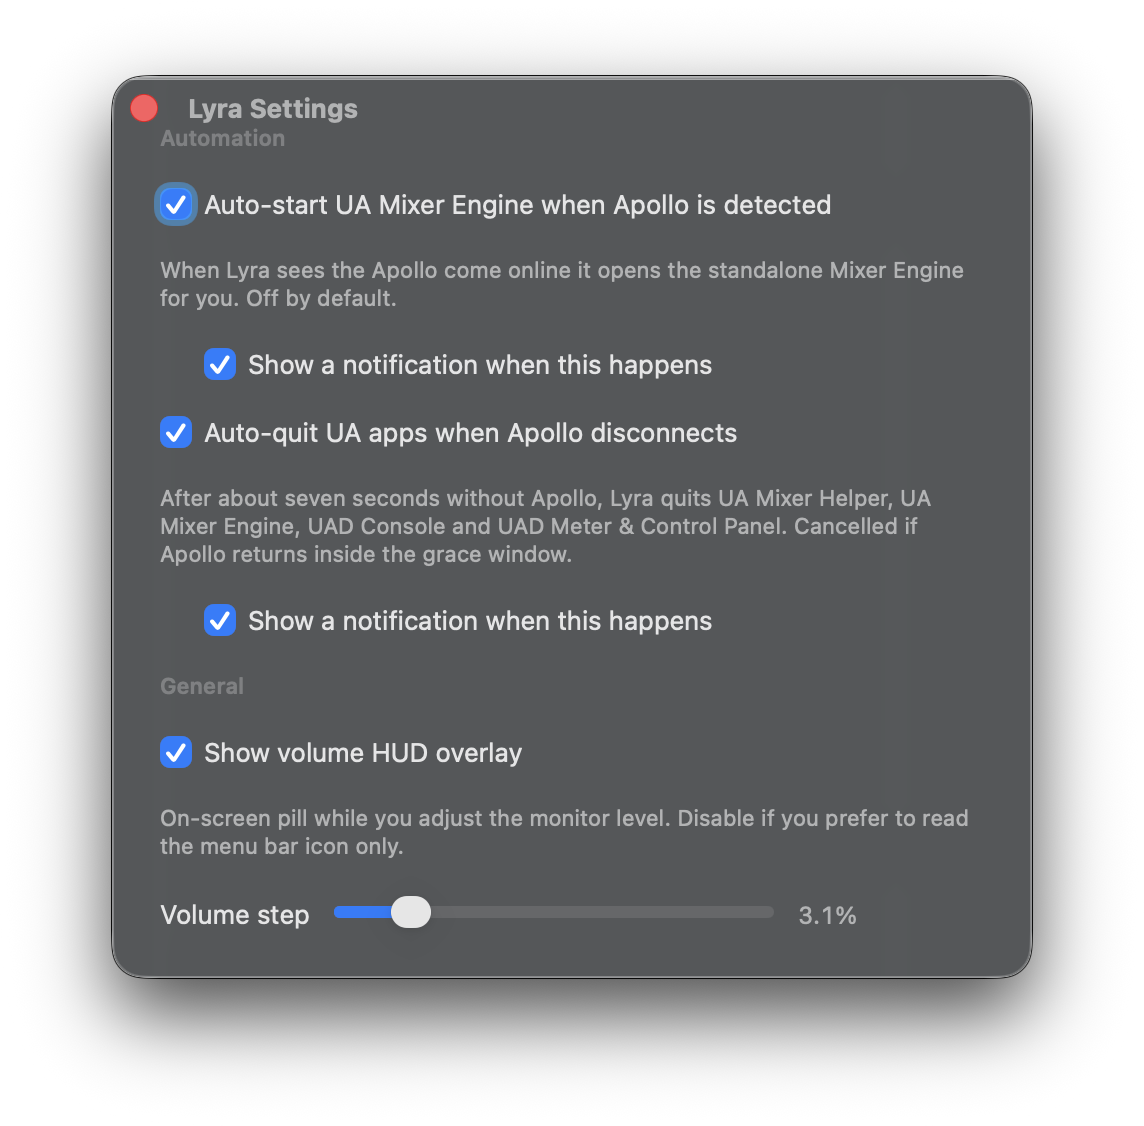
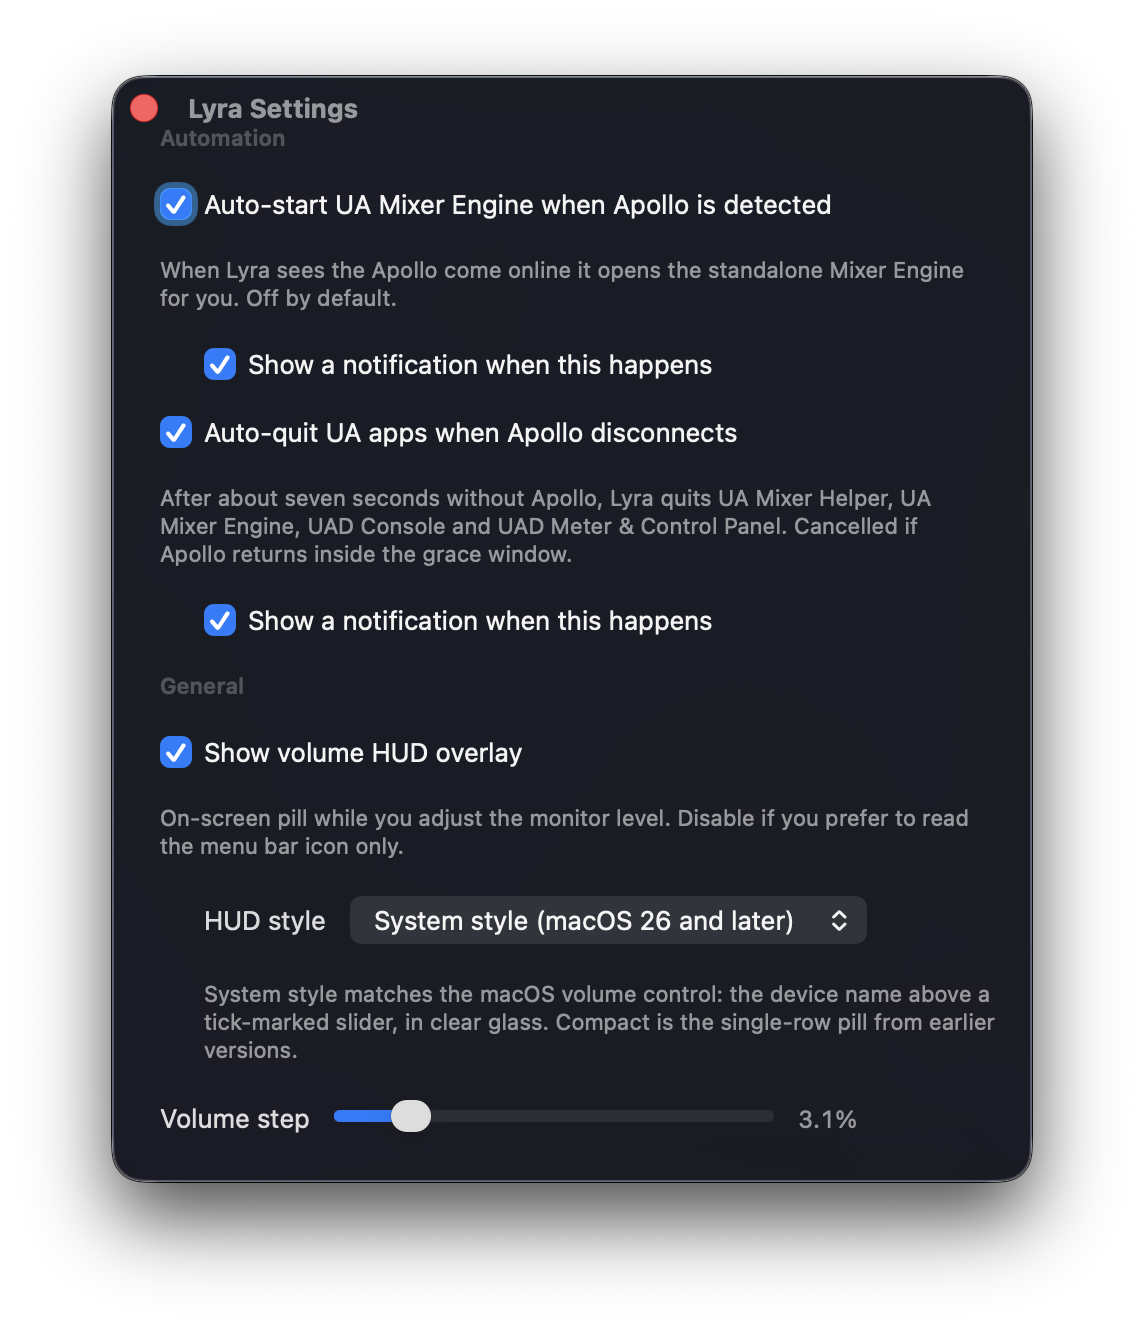
Lyra 1.8: menu and Settings screenshots with the new controls
lyra-menu.png re-shot from the installed 1.8 build with the Apollo
connected: Licensed, Connected: Universal Audio Thunderbolt, Volume 15%,
and the new Pass F-Keys to macOS item above Launch at Login. Gradient
backdrop, 1400 x 1200 at 2x. settings-window.png re-shot with the HUD
style popup in the General section. Alt texts updated on both pages.

Claude-Session: https://claude.ai/code/session_01EFAn8TJ4n5nv75MsPp9hq9

diff --git a/lyra/guide.html b/lyra/guide.html
@@ -615,7 +615,7 @@
 
         <p class="prose">Click the icon to open the menu. Sections, top to bottom:</p>
 
-        <img src="lyra-menu.png" alt="The Lyra menu bar popover with license status, connected Apollo device, volume slider, Mute/DIM/Mono toggles, and the Reference Levels submenu" class="screenshot-full">
+        <img src="lyra-menu.png" alt="The Lyra menu bar popover with license status, connected Apollo device, volume slider, Mute/DIM/Mono toggles, the Reference Levels submenu, and the Pass F-Keys to macOS and Launch at Login toggles" class="screenshot-full">
 
         <h3>License status</h3>
         <p class="prose">"Licensed ✓", "Trial - N days left", or "Trial expired". Hover for a tooltip.</p>
@@ -980,7 +980,7 @@ open "lyra://mute/toggle"</code></pre>
 
         <p class="prose">Open with <kbd>Cmd+,</kbd> or <strong>Settings…</strong> in the menu. New in v1.6. Two sections.</p>
 
-        <img src="settings-window.png" alt="Lyra's Settings window in its default appearance: an Automation section with auto-start and auto-quit toggles (both off) plus their paired notification sub-toggles, and a General section with the volume HUD toggle and volume step slider" class="screenshot-full">
+        <img src="settings-window.png" alt="Lyra's Settings window: an Automation section with the auto-start and auto-quit toggles plus their paired notification sub-toggles, and a General section with the volume HUD toggle, the HUD style popup set to System style, and the volume step slider" class="screenshot-full">
 
         <h3>Automation</h3>
         <ul>

diff --git a/lyra/index.html b/lyra/index.html
@@ -99,7 +99,7 @@
   <!-- ── Screenshots ──────────────────────────────────────────────────── -->
   <section class="shots">
     <div class="shot"><img src="lyra-hero.png" alt="Lyra at a glance - F10/F11/F12 shortcuts, three calibrated reference levels, and the lyra:// URL scheme"></div>
-    <div class="shot"><img src="lyra-menu.png" alt="Lyra menu bar popover - device status, monitor slider, Reference Levels submenu"></div>
+    <div class="shot"><img src="lyra-menu.png" alt="Lyra menu bar popover - license and device status, monitor slider, Mute / DIM / Mono, Reference Levels submenu, Pass F-Keys to macOS and Launch at Login toggles"></div>
     <div class="shot"><img src="lyra-hud.png" alt="Lyra volume HUD on macOS 26 - the connected Apollo's name above a tick-marked level slider, in clear glass under the menu bar"></div>
     <div class="shot"><img src="lyra-hud-ref.png" alt="Volume HUD after a Reference Level jump - the name line reads Mix - 85 dB SPL instead of the device name"></div>
     <div class="shot"><img src="lyra-hud-dim.png" alt="Volume HUD with DIM engaged - the level slider fills amber"></div>
